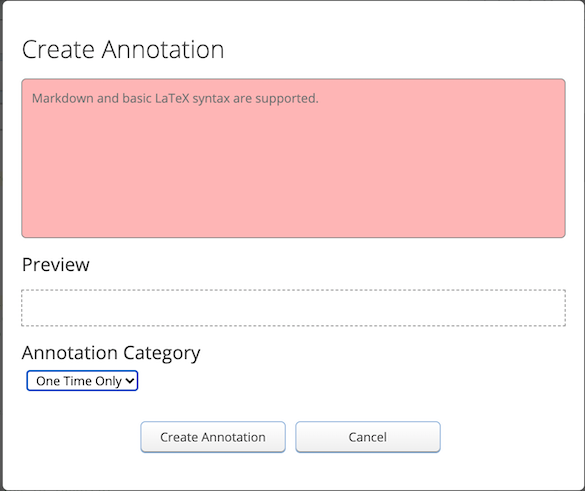
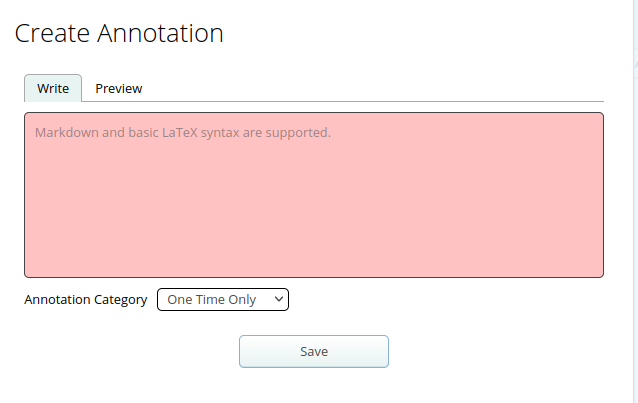
Update tags and create_modify_annotation_modal pictures/gif (#143)

diff --git a/RESTful-API.md b/RESTful-API.md
@@ -460,6 +460,47 @@ NOTE: the "AdminRole" type can only be used by AdminUser users
     - user_name (string : user name of a student in this course)
     - grade_entry_items (list of list of strings: the first string is a grade entry item name and the second is an integer to be assigned as a score. For example: `[["Q1", 100], ["Q2", 23]]`)
 
+### GET /api/courses/:course_id/tags
+
+- description: Display all tag information for a given course
+- optional parameters:
+    - [filter](#filter)
+    - [fields](#fields)
+- example response (json):
+
+```json
+[
+  {
+    "id": 20,
+    "name": "tag1",
+    "description": "desc",
+    "creator": "user1",
+    "use": 30,
+  }
+]
+```
+
+### POST /api/courses/:course_id/tags
+
+- description: Create a new tag for a given course
+- required parameters:
+    - assignment_id (integer: id of the assignment of the tag)
+    - name (string)
+- optional parameters:
+    - grouping_id (integer: id of grouping to pair the tag with)
+    - description (string)
+
+### PUT /api/courses/:course_id/tags/:id
+
+- description: Update a given tag
+- optional parameters:
+    - name (string)
+    - description (string)
+
+### DELETE /api/courses/:course_id/tags/:id
+
+- description: Delete a given tag
+
 ### GET /api/courses/:course_id/assignments
 
 - description: Display all assignment information for the given course
@@ -960,6 +1001,18 @@ NOTE: adding feedback files to subdirectories is currently not supported
   }
 ]
 ```
+
+### PUT /api/courses/:course_id/assignments/:assignment_id/groups/:group_id/add_tag
+
+- description: Add a tag to a grouping
+- required parameters:
+    - tag_id (integer)
+
+### PUT /api/courses/:course_id/assignments/:assignment_id/groups/:group_id/remove_tag
+
+- description: Remove a tag from a grouping
+- required parameters:
+    - tag_id (integer)
 
 ### GET /api/courses/:course_id/feedback_files/:id
 

diff --git a/Instructor-Guide--Assignments--Marking--Grading-View.md b/Instructor-Guide--Assignments--Marking--Grading-View.md
@@ -77,9 +77,12 @@ In the above image, an annotation is about to be made for the letter 'e'.
 Once you have selected a section, click on the "CREATE ANNOTATION" button to begin writing:
 
 This will open the following modal:
+
 ![Create Annotation Window](images/grade-view-annotation-modal.png)
 
-From this window you will be able to type out a comment for the students to see. Since the annotation field supports basic LaTeX and markdown commands, a preview is available under the text field so that you may see what your annotation will look like when released. Don't worry if it isn't perfect as there is an option to edit later! An annotation category may be specified from the drop-down list under "Annotation Category". (See the [Annotations](Instructor-Guide--Assignments--Deductive-Annotations.md) page for information on creating annotation categories) Once finished, be sure to click on the "Create Annotation" button to save your annotation!
+![Create Annotation Window Latex Tab](images/grade-view-annotation-modal-latex.png)
+
+From this window you will be able to type out a comment for the students to see. Since the annotation field supports basic LaTeX and markdown commands, a preview is in the second tab so that you may see what your annotation will look like when released. Don't worry if it isn't perfect as there is an option to edit later! An annotation category may be specified from the drop-down list under "Annotation Category". (See the [Annotations](Instructor-Guide--Assignments--Deductive-Annotations.md) page for information on creating annotation categories) Once finished, be sure to click on the "Create Annotation" button to save your annotation!
 
 ### Quick Annotations
 
